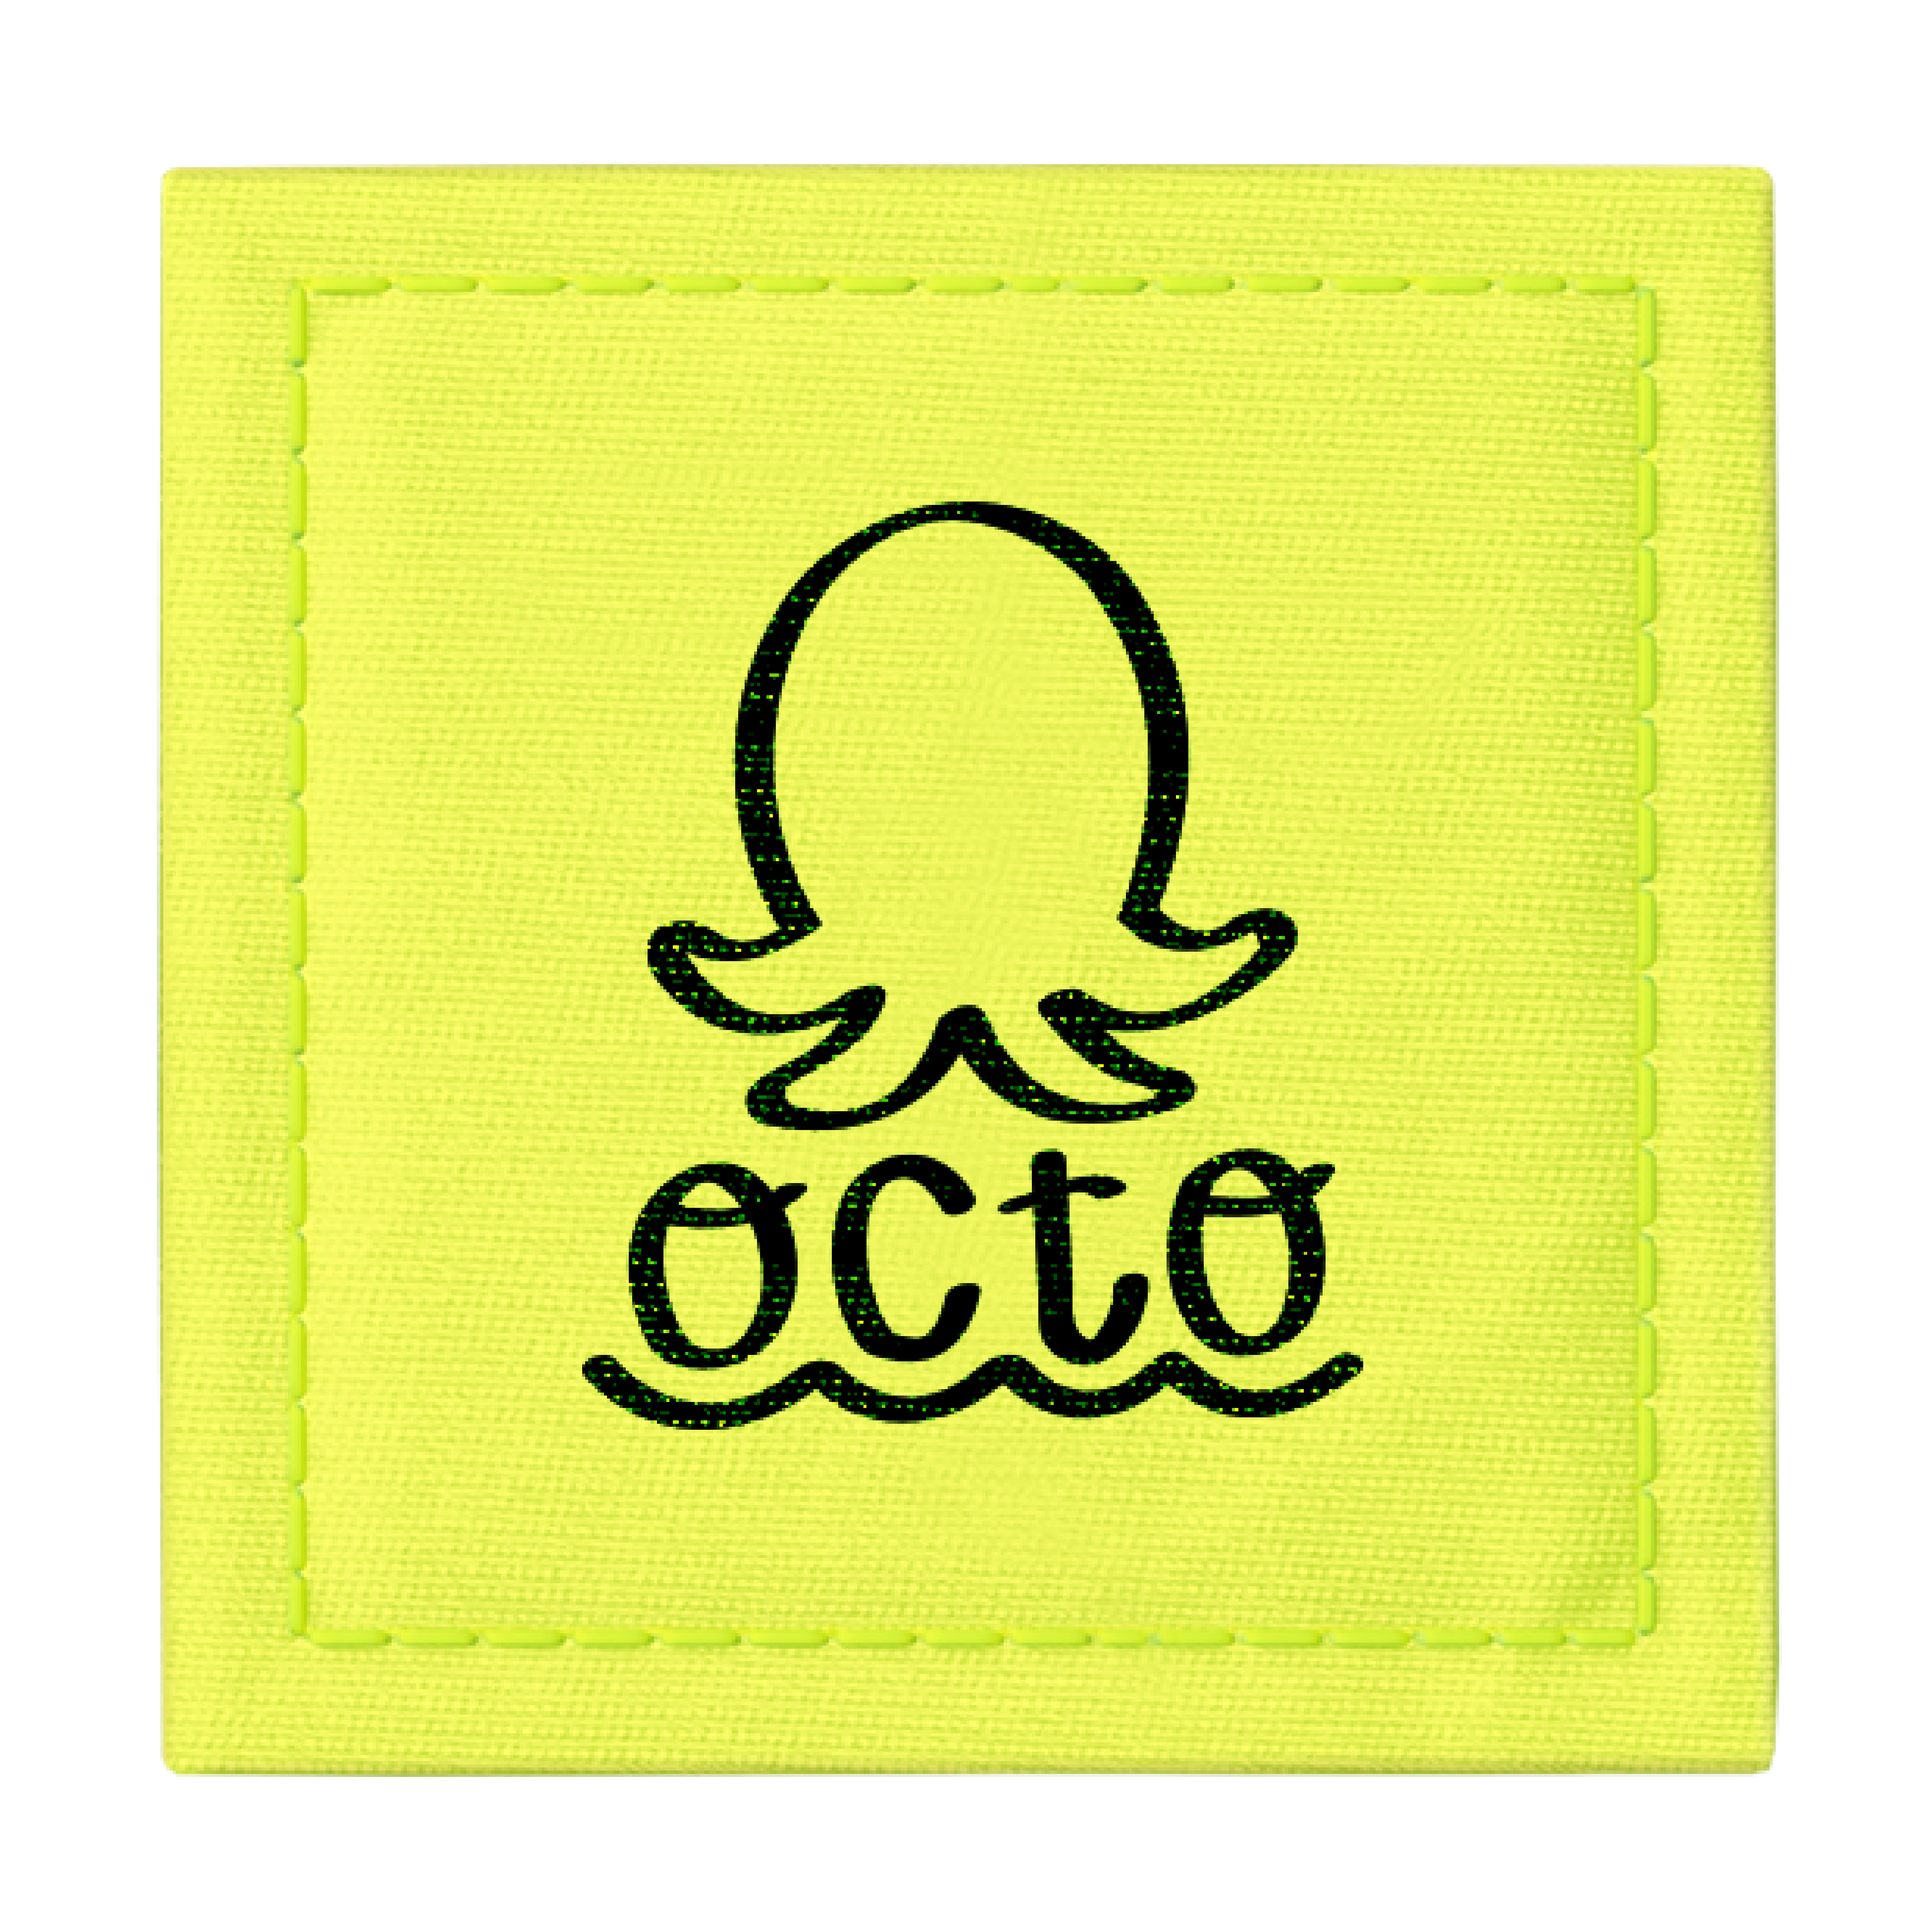
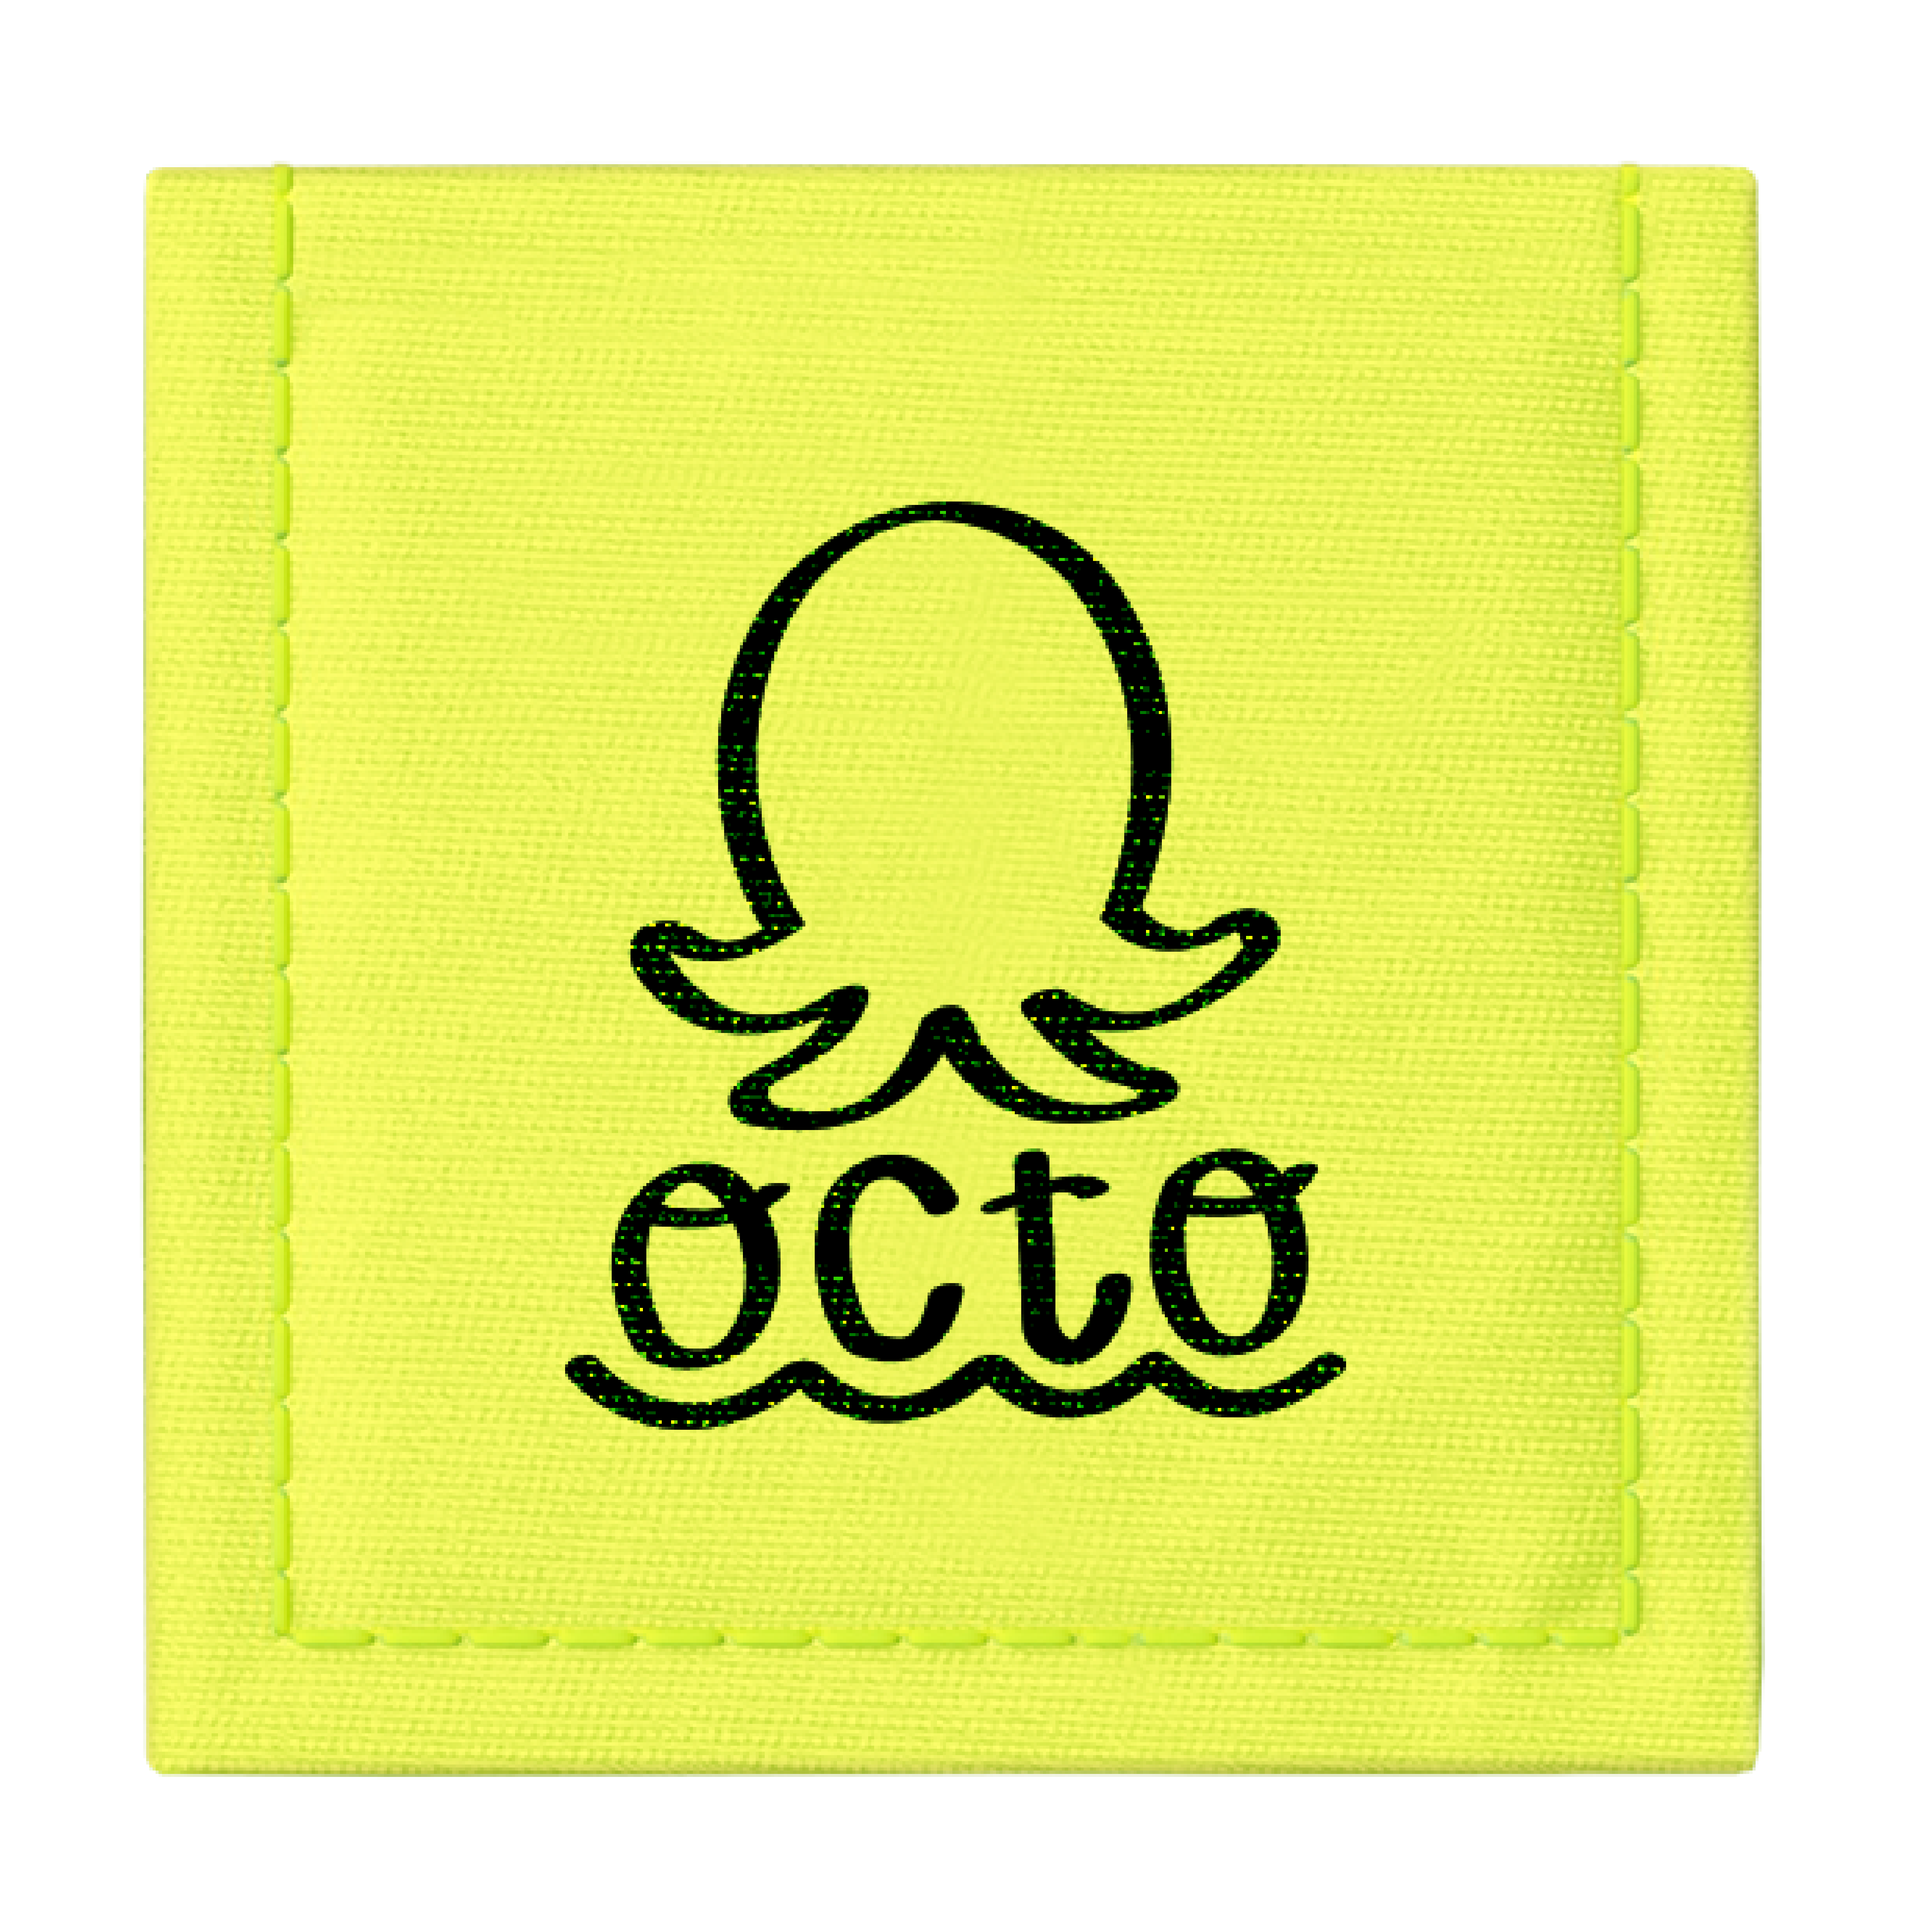
a

diff --git a/src/presentional/MenuBar/index.tsx b/src/presentional/MenuBar/index.tsx
@@ -1,45 +1,65 @@
 import { Box, useMediaQuery, useTheme } from "@mui/material";
 import { i18n } from "../../translations/i18n";
 import { BiSearch } from "react-icons/bi";
-import { AiOutlineHeart, AiOutlineShopping } from "react-icons/ai";
+import { AiOutlineShopping } from "react-icons/ai";
 import { VscMenu } from "react-icons/vsc";
+import { BsInstagram } from "react-icons/bs"
 
 import Button from "./Button";
 import { Colors } from "../../constants/pallete";
+import { ROUTE_PATHS } from "../../constants/routes";
+import BasicPopover from "../../components/Popover";
+import { useState } from "react";
+import CollectionPopover from "./CollectionPopover";
 
 const MenuBar = () => {
   const theme = useTheme();
   const mobile = useMediaQuery(theme.breakpoints.down("sm"));
+  const [anchorPopover, setAnchorPopover] = useState<any>(null);
+
+
 
   const renderLaptop = () => {
     return (
-      <Box
-        display='flex'
-        columnGap='40px'
-        alignItems='center'
-        style={{ position: "absolute", top: "60px", right: "80px" }}
-      >
-        <Button title={i18n.t("menuBar.about")} />
-        <Button title={i18n.t("menuBar.collection")} />
-        <Button title={i18n.t("menuBar.store")} />
-        <Box display='flex' columnGap='12px' alignItems='center'>
-          <BiSearch
-            size='25px'
-            color={Colors.PRETTY_CREAM}
-            style={{ cursor: "pointer" }}
+      <>
+        <Box
+          display='flex'
+          columnGap='40px'
+          alignItems='center'
+          style={{ position: "absolute", top: "60px", right: "80px" }}
+        >
+          <Button title={i18n.t("menuBar.about")} link={ROUTE_PATHS.ABOUT} setAnchorPopover={setAnchorPopover} />
+
+          <Button
+            title={i18n.t("menuBar.collection")}
+            link={ROUTE_PATHS.COLLECTION}
+            setAnchorPopover={setAnchorPopover}
+            collection
           />
-          <AiOutlineHeart
-            size='25px'
-            color={Colors.PRETTY_CREAM}
-            style={{ cursor: "pointer" }}
-          />
-          <AiOutlineShopping
-            size='25px'
-            color={Colors.PRETTY_CREAM}
-            style={{ marginTop: "-3px", cursor: "pointer" }}
-          />
+
+          <Button title={i18n.t("menuBar.store")} link={ROUTE_PATHS.STORE} setAnchorPopover={setAnchorPopover} />
+          <Box display='flex' columnGap='12px' alignItems='center'>
+            <BiSearch
+              size='25px'
+              color={Colors.PRETTY_CREAM}
+              style={{ cursor: "pointer" }}
+            />
+            <BsInstagram
+              size='25px'
+              color={Colors.PRETTY_CREAM}
+              style={{ cursor: "pointer" }}
+            />
+            <AiOutlineShopping
+              size='25px'
+              color={Colors.PRETTY_CREAM}
+              style={{ marginTop: "-3px", cursor: "pointer" }}
+            />
+          </Box>
         </Box>
-      </Box>
+        <BasicPopover anchorEl={anchorPopover} setAnchorEl={setAnchorPopover} >
+          <CollectionPopover />
+        </BasicPopover>
+      </>
     );
   };
 

diff --git a/src/presentional/MenuBar/Button/index.tsx b/src/presentional/MenuBar/Button/index.tsx
@@ -1,26 +1,46 @@
-import { Typography } from "@mui/material";
+import { Box, Typography } from "@mui/material";
 import { useState } from "react";
 import { Colors } from "../../../constants/pallete";
+import { useNavigate } from "react-router-dom";
 
 interface Props {
   title: string;
+  link?: string;
+  setAnchorPopover: any;
+  collection?: boolean
 }
 
-export const Button = ({ title }: Props) => {
-
-  const [hover, setHover] = useState<boolean>(false)
+export const Button = ({ title, link, setAnchorPopover, collection }: Props) => {
+  const [hover, setHover] = useState<boolean>(false);
+  console.log(hover)
+  const navigate = useNavigate();
   return (
-
-    <Typography
-      onMouseEnter={() => setHover(true)}
-      onMouseLeave={() => setHover(false)}
-      mt="5px"
-      color={hover ? "#ffffffE6" : Colors.PRETTY_CREAM}
-      style={{ textTransform: "uppercase", fontSize: "20px", fontFamily: "Avalanche", cursor: "pointer" }}
+    <Box
+      style={{ cursor: "pointer" }}
+      onMouseEnter={(e: any) => {
+        setHover(true);
+        if (collection) { setAnchorPopover(e.currentTarget) }
+        else setAnchorPopover(false)
+      }}
+      onMouseLeave={() => {
+        setHover(false);
+        //setTimeout(() => setAnchorPopover(null), 500)
+      }}
+      onClick={() => {
+        if (link) navigate(link);
+      }}
     >
-      {title}
-    </Typography>
-
+      <Typography
+        mt='5px'
+        color={hover ? Colors.NEON_YELLOW : Colors.PRETTY_CREAM}
+        style={{
+          textTransform: "uppercase",
+          fontSize: "20px",
+        }}
+      >
+        {title}
+      </Typography>
+    </Box>
   );
 };
 

diff --git a/src/presentional/MenuBar/CollectionPopover/index.tsx b/src/presentional/MenuBar/CollectionPopover/index.tsx
@@ -1,0 +1,56 @@
+import { Grid, Box } from "@mui/material";
+import {
+  BsFillAirplaneEnginesFill,
+  BsFillArrowThroughHeartFill,
+  BsFillDice3Fill,
+} from "react-icons/bs";
+import { Colors } from "../../../constants/pallete";
+
+const CollectionPopover = () => {
+  const sizeIcons = "50px";
+  const listOfIcons = [
+    <BsFillAirplaneEnginesFill color={Colors.NEON_YELLOW} size={sizeIcons} />,
+    <BsFillArrowThroughHeartFill color={Colors.NEON_YELLOW} size={sizeIcons} />,
+    <BsFillDice3Fill color={Colors.NEON_YELLOW} size={sizeIcons} />,
+    <BsFillAirplaneEnginesFill color={Colors.NEON_YELLOW} size={sizeIcons} />,
+    <BsFillArrowThroughHeartFill color={Colors.NEON_YELLOW} size={sizeIcons} />,
+
+  ];
+  return (
+    <Grid
+      container
+
+      style={{ padding: "20px" }}
+      columnSpacing={3}
+      rowSpacing={3}
+    >
+      {listOfIcons.map((item, pos) => {
+        return (
+          <Grid
+
+            key={pos}
+            item
+            justifyContent='center'
+            alignItems='center'
+            style={{ cursor: "pointer", }}
+          >
+            <Box
+              display='flex'
+              justifyContent='center'
+              alignItems='center'
+              style={{
+
+                padding: "10px",
+                border: `solid 2px ${Colors.NEON_YELLOW}`,
+              }}
+            >
+              {item}
+            </Box>
+          </Grid>
+        );
+      })}
+    </Grid>
+  );
+};
+
+export default CollectionPopover;

diff --git a/src/components/Popover/index.tsx b/src/components/Popover/index.tsx
@@ -1,0 +1,62 @@
+import * as React from 'react';
+import Popover from '@mui/material/Popover';
+import { Colors } from '../../constants/pallete';
+
+
+
+interface Props {
+  anchorEl: HTMLButtonElement | null
+  setAnchorEl: (anchorEl: HTMLButtonElement | null) => any
+  children: JSX.Element
+
+}
+
+export default function BasicPopover({ anchorEl, setAnchorEl, children }: Props) {
+
+
+  const handleClose = () => {
+    setAnchorEl(null);
+  };
+
+  const open = Boolean(anchorEl);
+  const id = open ? 'simple-popover' : undefined;
+
+  return (
+    <div >
+
+
+
+      <Popover
+
+        style={{ pointerEvents: "none" }}
+        id={id}
+        open={Boolean(anchorEl)}
+        anchorEl={anchorEl}
+        onClose={handleClose}
+        anchorOrigin={{
+          vertical: 'bottom',
+          horizontal: 'right',
+        }}
+        transformOrigin={{
+          vertical: "top",
+          horizontal: "right",
+        }}
+        disableRestoreFocus
+        PaperProps={{
+          // onMouseEnter: (e: any) => setAnchorEl(e.currentTarget),
+          onMouseLeave: () => setAnchorEl(null),
+          style: {
+
+            pointerEvents: "auto",
+            marginTop: "10px",
+            backgroundColor: Colors.NEON_YELLOW_TRANSPARENT
+          }
+        }}
+      >
+
+        {children}
+
+      </Popover>
+    </div>
+  );
+}

diff --git a/src/modules/Home/index.tsx b/src/modules/Home/index.tsx
@@ -9,7 +9,7 @@ import { AiFillCaretRight } from "react-icons/ai";
 import { Colors } from "../../constants/pallete";
 import { i18n } from "../../translations/i18n";
 import Label from "../../assets/images/label.png";
-import Carousel from "../../components/Carousel";
+import labelEsq from "../../assets/images/labelEsq.png"
 
 const Home = () => {
   const theme = useTheme();
@@ -31,9 +31,10 @@ const Home = () => {
       >
         <Container maxWidth='xl'>
           <Box
-            width='200px'
-            height='200px'
+            width='250px'
+            height='250px'
             style={{
+              marginTop: "-22px",
               backgroundPosition: "center center",
               backgroundRepeat: "no-repeat",
               backgroundImage: `url(${Label})`,
@@ -71,7 +72,7 @@ const Home = () => {
           </Box>
         </Container>
 
-        <Carousel />
+
 
       </Box>
     );
@@ -102,7 +103,7 @@ const Home = () => {
 
               backgroundPosition: "center center",
               backgroundRepeat: "no-repeat",
-              backgroundImage: `url(${Label})`,
+              backgroundImage: `url(${labelEsq})`,
               backgroundSize: "cover",
             }}
           ></Box>

diff --git a/src/routes/routes.tsx b/src/routes/routes.tsx
@@ -6,7 +6,7 @@ import { MainLayout } from "../layouts/MainLayout";
 
 const Home = lazyWithRetryAndLoader(() => import("../modules/Home"));
 
-//const About = lazyWithRetryAndLoader(() => import("../modules/About"));
+const About = lazyWithRetryAndLoader(() => import("../modules/About"));
 
 
 export const routes: AppRoute[] = [
@@ -19,12 +19,12 @@ export const routes: AppRoute[] = [
     ),
   },
 
-  // {
-  //   path: ROUTE_PATHS.ABOUT,
-  //   component: <MainLayout marginBottom="0vh">
-  //     <About />
-  //   </MainLayout>,
-  // },
+  {
+    path: ROUTE_PATHS.ABOUT,
+    component: <MainLayout>
+      <About />
+    </MainLayout>,
+  },
   // {
   //   path: ROUTE_PATHS.ADMIN,
   //   component: <AdminLayout>

diff --git a/src/translations/languages/pt.js b/src/translations/languages/pt.js
@@ -11,7 +11,7 @@ export const content = {
       modules: {
         home: {
           mainText: "Nascer\n Octomistic",
-          discover: "Descobre a nova coleção",
+          discover: "Descobre a coleção",
           maternityBags: "Sacos\n Maternindade",
         },
 

diff --git a/src/translations/languages/en.js b/src/translations/languages/en.js
@@ -11,7 +11,7 @@ export const content = {
       modules: {
         home: {
           mainText: "Born\n Octomistic",
-          discover: "Discover the new collection",
+          discover: "Discover the collection",
           maternityBags: "Maternity\n Bags",
         },
 

diff --git a/src/constants/pallete.ts b/src/constants/pallete.ts
@@ -2,5 +2,6 @@ export const Colors = {
   SOFT_PINK: "pink",
   PRETTY_CREAM: "#CDC8C2",
   NEON_YELLOW:"#D2E500",
+  NEON_YELLOW_TRANSPARENT:"#D2E50066",
   BLACKISH:"#1A2032"
 }

diff --git a/src/constants/routes/index.ts b/src/constants/routes/index.ts
@@ -2,4 +2,6 @@ export const ROUTE_PATHS = {
   HOME: '/',
   ABOUT: '/about',
   ADMIN: '/admin',
+  STORE:"/store",
+  COLLECTION:"/collections"
 }

diff --git a/src/modules/About/index.tsx b/src/modules/About/index.tsx
@@ -1,0 +1,7 @@
+const About = () => {
+  return (
+    <>Teste</>
+  )
+}
+
+export default About
